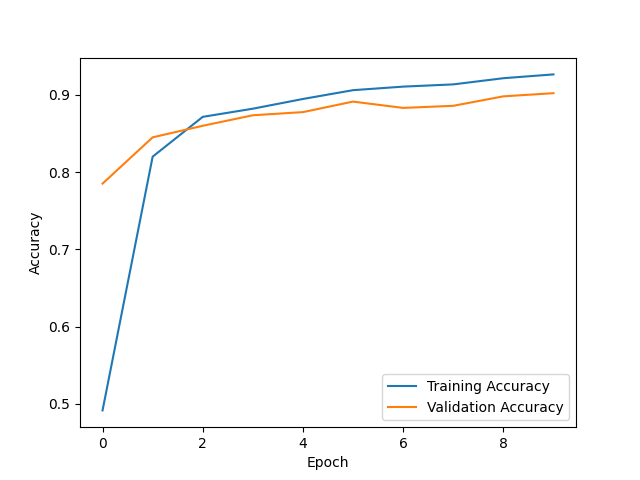
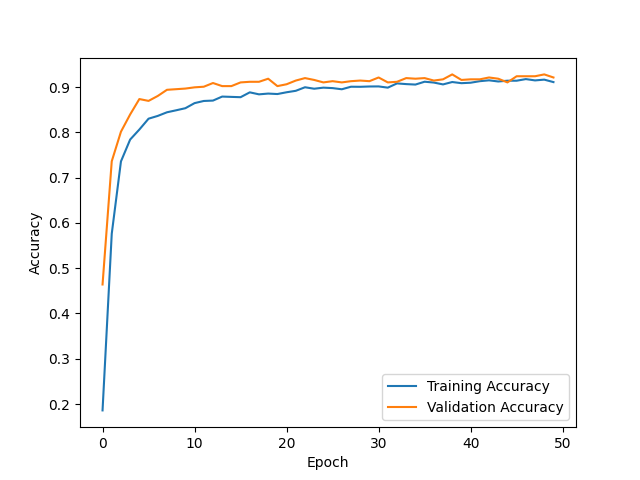
very good

diff --git a/main.py b/main.py
@@ -8,19 +8,27 @@ from datasets import load_dataset, load_metric
 from transformers import ViTFeatureExtractor, ViTForImageClassification, Trainer, TrainingArguments
 import time
 import numpy as np
+import kornia
 
 device = torch.device("cuda:0" if torch.cuda.is_available() else "cpu")
 data_dir = "./datasets/oxfordIIITPet"
 
-
+transform = nn.Sequential(
+    # random vertical flip
+    kornia.augmentation.RandomVerticalFlip(p=0.2),
+    # random rotation
+    kornia.augmentation.RandomRotation(degrees=10),
+    # random color jitter
+    kornia.augmentation.ColorJitter(0.1, 0.1, 0.1, 0.1, p=0.3),
+    # random grayscale
+    kornia.augmentation.RandomGrayscale(p=0.05),
+    # random blur
+    kornia.augmentation.RandomGaussianBlur((3, 3), (1.5, 1.5), p=0.1),
+  )
 
 def load_dataset(binary_classification=False):
-
   transform = transforms.Compose([
-    #transforms.ColorJitter(hue=.05, saturation=.05),
-    transforms.RandomCrop([400, 400], 1, pad_if_needed=True),
-    #transforms.RandomHorizontalFlip(),
-    #transforms.RandomRotation(20),
+    transforms.RandomCrop([400, 400], pad_if_needed=True, padding=1),
     transforms.ToTensor(),
   ])
 
@@ -45,9 +53,9 @@ def load_dataset(binary_classification=False):
       else:
         raise ValueError(f"Unknown label: {target}")
 
-    train_dataset = datasets.OxfordIIITPet(root=data_dir, split="trainval", transform=transform, target_transform=target_transform)
+    train_dataset = datasets.OxfordIIITPet(root=data_dir, split="trainval", target_transform=target_transform)
     train_dataset.classes = ['dog', 'cat']
-    test_dataset = datasets.OxfordIIITPet(root=data_dir, split="test", transform=transform, target_transform=target_transform)
+    test_dataset = datasets.OxfordIIITPet(root=data_dir, split="test", target_transform=target_transform)
     test_dataset.classes = ['dog', 'cat']
     dataset = torch.utils.data.ConcatDataset([train_dataset, test_dataset])
 
@@ -91,7 +99,7 @@ def create_vit_model():
 
 def create_resnet_model(output_dimension=37, layers_to_fine_tune=1, fine_tune_normalization=True):
     # try model with more layers
-    model = models.resnet18(weights="ResNet18_Weights.DEFAULT").to(device)
+    model = models.resnet34(weights="ResNet34_Weights.DEFAULT").to(device)
     # replace last layer
     model.fc = nn.Linear(512, output_dimension).to(device)
     # freeze the correct number of layers
@@ -133,6 +141,7 @@ def train(model, training_data, validation_data, optimizer, criterion, n_epochs=
     running_loss = 0.0
     for inputs, labels in training_loader:
       inputs, labels = inputs.to(device), labels.to(device)
+      inputs = transform(inputs)
 
       optimizer.zero_grad()
 
@@ -196,6 +205,7 @@ def test(model, test_data, criterion, load_from_pretrained=False):
 
 if __name__ == "__main__":
   do_binary_classification = False 
+  load_from_pretrained = True
   training_data, validation_data, test_data = load_dataset(binary_classification=do_binary_classification)
 
   model = create_resnet_model(
@@ -206,16 +216,18 @@ if __name__ == "__main__":
 
   criterion = nn.CrossEntropyLoss()
   optimizer = optim.Adam(model.parameters(), lr=0.001)
-  training_metrics = train(
-    model=model,
-    training_data=training_data,
-    validation_data=validation_data,
-    optimizer=optimizer,
-    criterion=criterion,
-    n_epochs=10
-  )
 
-  # plot(training_metrics)
-  test(model, test_data, criterion)
+  if not load_from_pretrained:
+    training_metrics = train(
+      model=model,
+      training_data=training_data,
+      validation_data=validation_data,
+      optimizer=optimizer,
+      criterion=criterion,
+      n_epochs=50
+    )
+    plot(training_metrics)
+
+  test(model, test_data, criterion, load_from_pretrained=load_from_pretrained)
 
 
